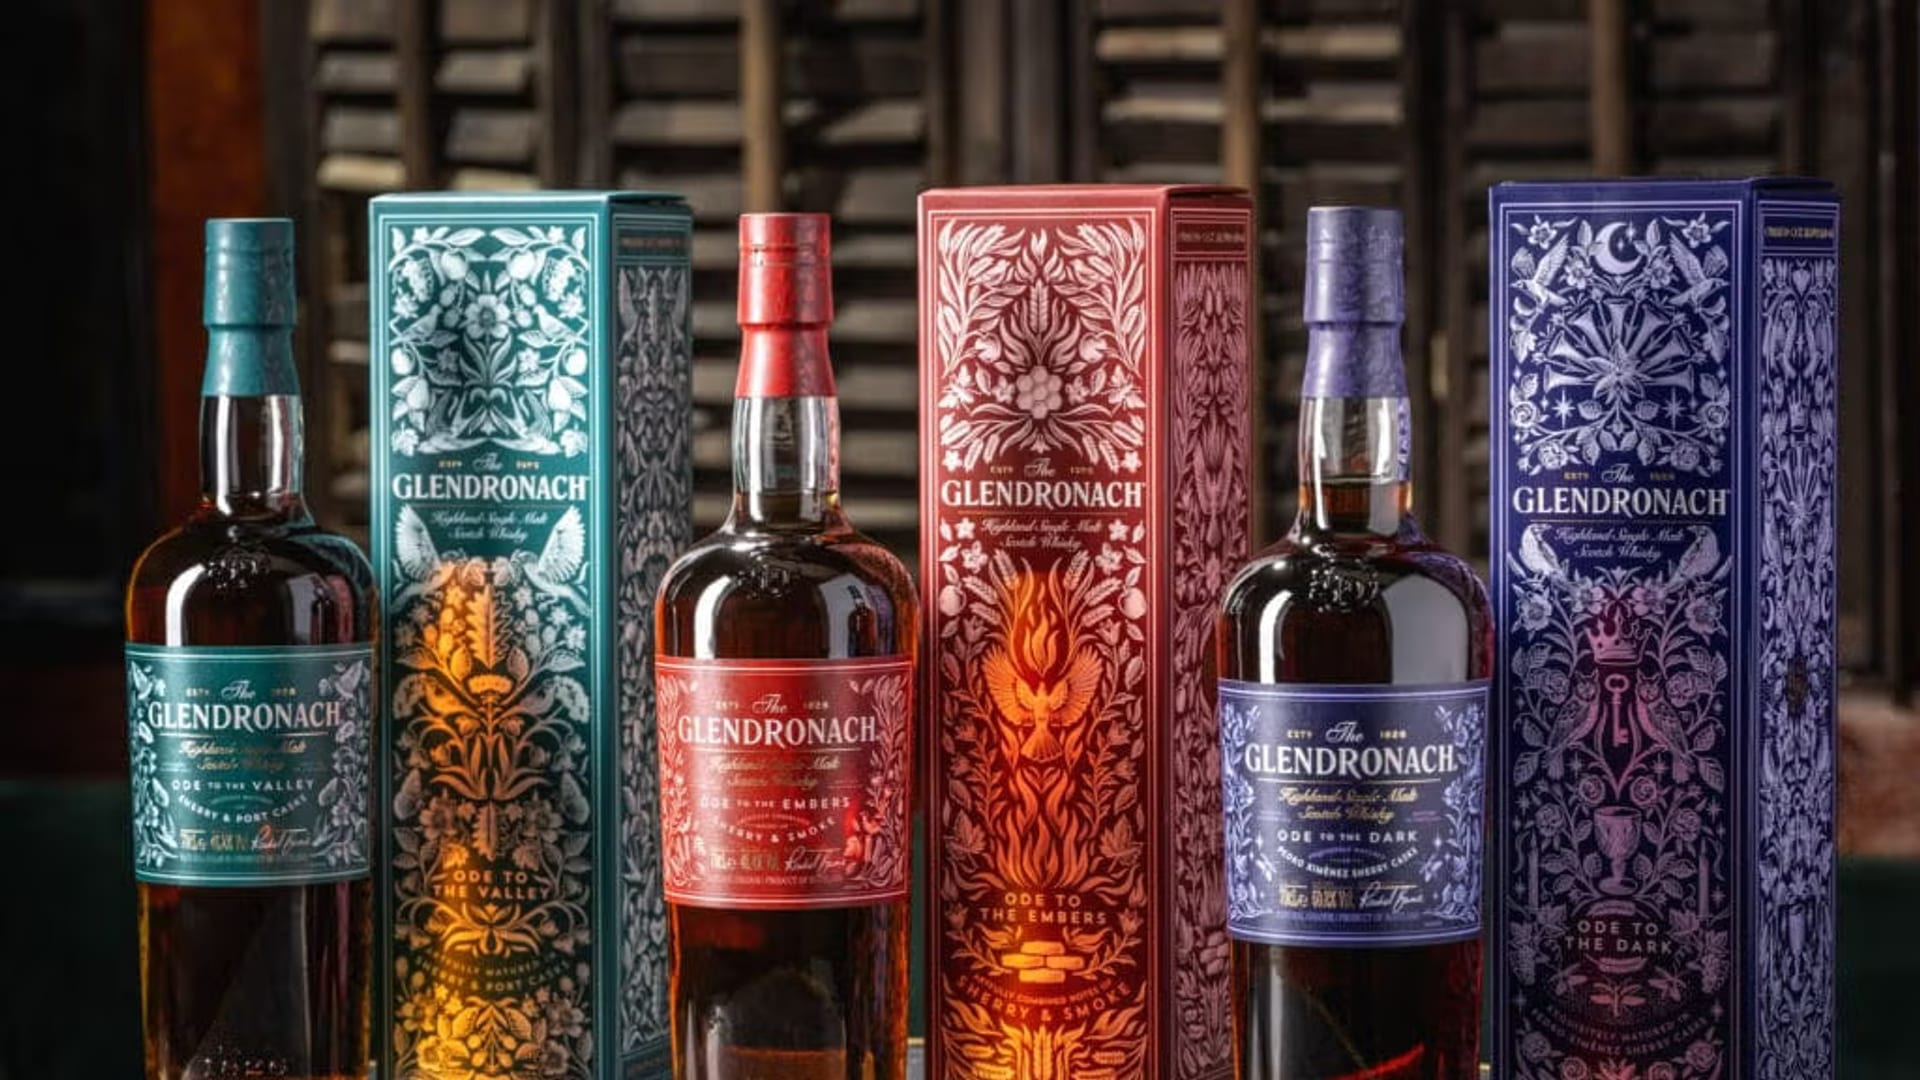
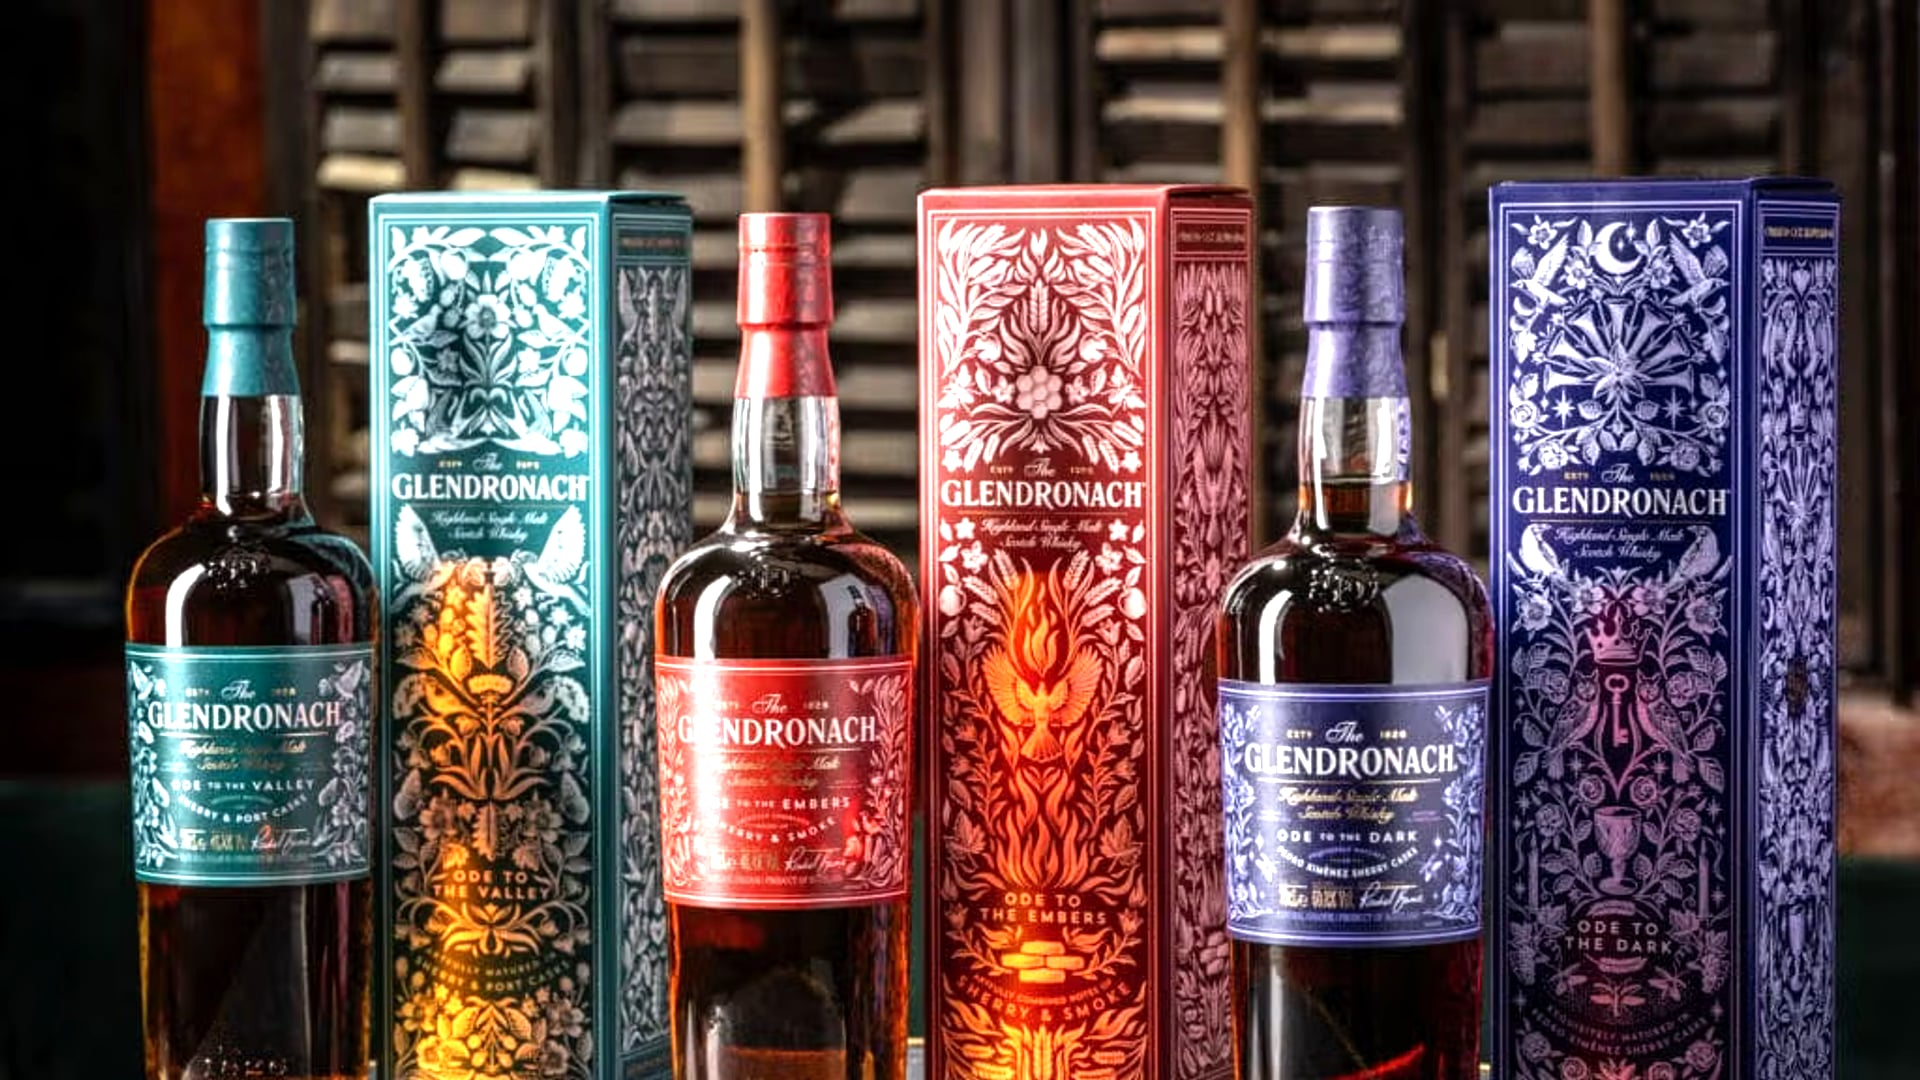
Brighten hero images further per feedback
- scripts/process-hero-images.mjs: boost brightness (+28%) and saturation
  (+18%) plus a contrast lift on the source photography during processing,
  since the raw studio shots read as too dark/muted for a full-bleed hero
- components/HeroSlider.tsx: significantly lighten the text-legibility
  scrim (was up to 90% black on the left, now 70% fading almost immediately
  to transparent) so the photography itself carries the brightness

diff --git a/components/HeroSlider.tsx b/components/HeroSlider.tsx
@@ -75,10 +75,9 @@ export function HeroSlider() {
             sizes="100vw"
           />
 
-          {/* Warm amber/black brand-tint overlay — kept light so the photo stays bright */}
-          <div className="absolute inset-0 bg-gradient-to-r from-neutral-950/90 via-neutral-950/45 to-amber-950/20" />
-          <div className="absolute inset-0 bg-gradient-to-t from-black/50 via-transparent to-black/10" />
-          <div className="absolute inset-0 mix-blend-overlay bg-gradient-to-br from-amber-500/25 via-transparent to-transparent" />
+          {/* Minimal left-side scrim — just enough for text contrast, photo stays bright */}
+          <div className="absolute inset-0 bg-gradient-to-r from-neutral-950/70 via-neutral-950/15 to-transparent" />
+          <div className="absolute inset-0 bg-gradient-to-t from-black/25 via-transparent to-transparent" />
 
           {/* Slide Content */}
           <div className="relative z-20 max-w-7xl mx-auto h-full px-4 sm:px-6 lg:px-8 flex items-center">
